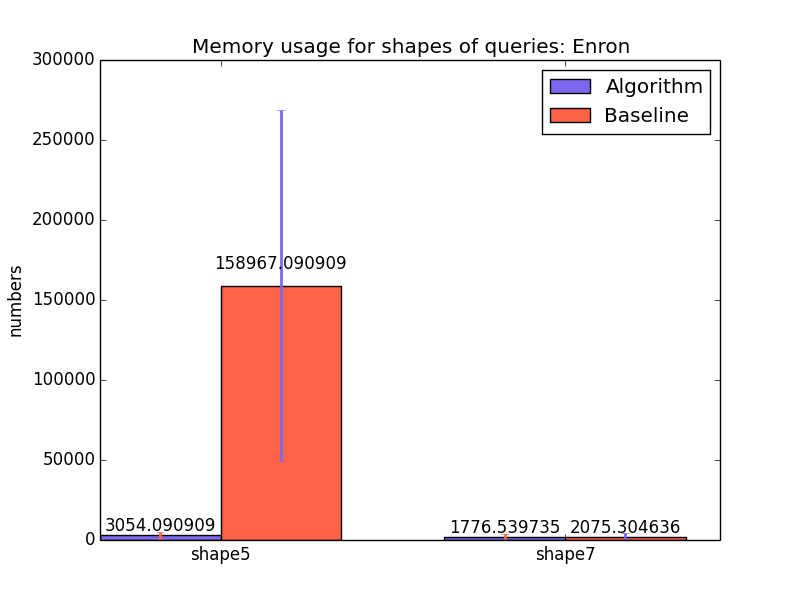
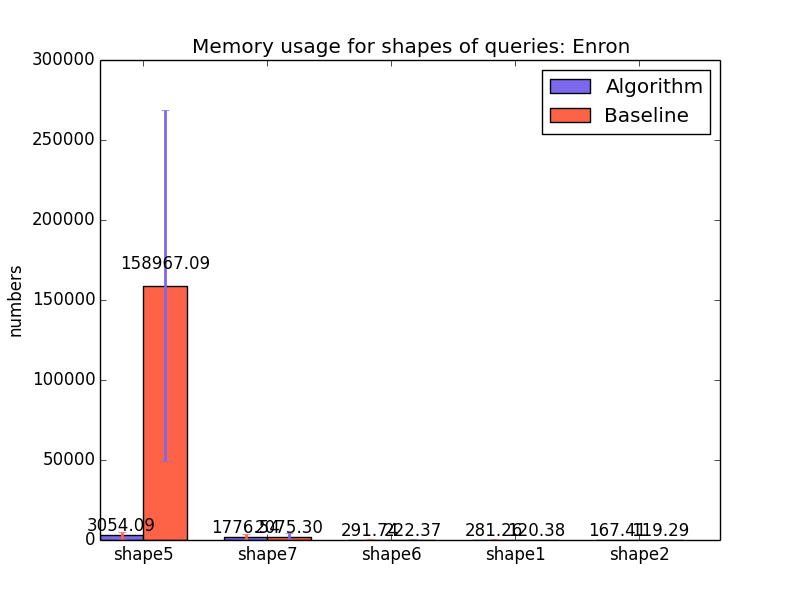
stat plotted

Changed region(s): [[0.0938, 0.18, 0.875, 0.96]]

diff --git a/plot_performance.py b/plot_performance.py
@@ -33,15 +33,15 @@ def plot(AlgoMeans, AlgoStd, baseMeans, baseStd, title, unit):
     ax.set_ylabel(unit)
     ax.set_title(title)
     ax.set_xticks(ind + width)
-    ax.set_xticklabels(('shape5', 'shape7'))
-
+    ax.set_xticklabels(('shape5', 'shape7','shape6', 'shape1', 'shape2'))
+ #   ax.set_yscale('log')
     ax.legend((rects1[0], rects2[0]), ('Algorithm', 'Baseline'))
 
     def autolabel(rects):
         for rect in rects:
             height = rect.get_height()
             ax.text(rect.get_x() + rect.get_width()/2., 1.05*height,
-                    '%f' % float(height),
+                    '%.2f' % float(height),
                     ha='center',            # vertical alignment
                     va='bottom'             # horizontal alignment
                     )
@@ -170,10 +170,11 @@ def plottime():
     baselineMeans = list()
     baselineStd = list()
 
-    algoMeans, algoStd, baselineMeans, baselineStd = stat_time(algoMeans, algoStd, baselineMeans, baselineStd, 5)
-    #construct comparison bar1: first ...
-    algoMeans, algoStd, baselineMeans, baselineStd = stat_time(algoMeans, algoStd, baselineMeans, baselineStd, 7)
-    #construct comparison bar 2: second element in lists to plot
+    shapes = [5, 7, 6, 1, 2]
+
+    for shape in shapes:
+        print shape
+        algoMeans, algoStd, baselineMeans, baselineStd = stat_time(algoMeans, algoStd, baselineMeans, baselineStd, shape)
 
     plot(algoMeans, algoStd, baselineMeans, baselineStd, "Running time for shapes of queries: Enron", 'Time:/s')
 
@@ -185,10 +186,10 @@ def plotmem():
     baselineMeans = list()
     baselineStd = list()
 
-    algoMeans, algoStd, baselineMeans, baselineStd = stat_mem(algoMeans, algoStd, baselineMeans, baselineStd, 5)
-    #construct comparison bar1: first ...
-    algoMeans, algoStd, baselineMeans, baselineStd = stat_mem(algoMeans, algoStd, baselineMeans, baselineStd, 7)
-    #construct comparison bar 2: second element in lists to plot
+    shapes = [5, 7, 6, 1, 2]
+
+    for shape in shapes:
+        algoMeans, algoStd, baselineMeans, baselineStd = stat_mem(algoMeans, algoStd, baselineMeans, baselineStd, shape)
 
     plot(algoMeans, algoStd, baselineMeans, baselineStd, "Memory usage for shapes of queries: Enron", 'numbers')
 
@@ -198,11 +199,10 @@ def plotspace():
     algoStd = list()
     baselineMeans = list()
     baselineStd = list()
+    shapes = [5, 7, 6, 1, 2]
 
-    algoMeans, algoStd, baselineMeans, baselineStd = stat_space(algoMeans, algoStd, baselineMeans, baselineStd, 5)
-    #construct comparison bar1: first ...
-    algoMeans, algoStd, baselineMeans, baselineStd = stat_space(algoMeans, algoStd, baselineMeans, baselineStd, 7)
-    #construct comparison bar 2: second element in lists to plot
+    for shape in shapes:
+        algoMeans, algoStd, baselineMeans, baselineStd =  stat_space(algoMeans, algoStd, baselineMeans, baselineStd, shape)
 
     plot(algoMeans, algoStd, baselineMeans, baselineStd, "Total search space for shapes of queries: Enron", 'numbers')
 

diff --git a/experiment_batch.py b/experiment_batch.py
@@ -22,6 +22,7 @@ def repeat_for_shape(shape_choose, number, infile):
     seen_seeds = set()
 
     skip_first = 1
+    datasetname = infile.split('/')[1]
     with open(infile,'r') as infileP:
         for line in infileP:
             if skip_first == 1:
@@ -30,10 +31,10 @@ def repeat_for_shape(shape_choose, number, infile):
                 seed = line.split(' ')[0]
                 if seed not in seen_seeds:
                     print "NEW ROUND START---"
-                    outdir = "./output"+str(shape_choose)+"/"+str(seed)
+                    outdir = "./"+datasetname+"outputs/output"+str(shape_choose)+"/"+str(seed)
                     print outdir
                   #  try:
-                    run(["./pro-heaps", infile, outdir, str(shape_choose), str(seed)], 20)
+                    run(["./pro-heaps", infile, outdir, str(shape_choose), str(seed)], 60)
                         #when there are real top-k, the result would be valid, otherwise no!
                     #except Exception as Calling_timeout:
                      #   print "WARNING--TIMEOUT"
@@ -49,7 +50,10 @@ def repeat_for_shape(shape_choose, number, infile):
 def main():
    # repeat_for_shape(1, 100, "./Enron/enron_graph.wgt.norm")
    # repeat_for_shape(4, 2000, "./DBLP/dblp_graph.new.wgt")
-    repeat_for_shape(7, 1000, "./Enron/enron_graph.wgt.norm")
+
+    shapelist = [1, 2, 7, 5]
+    for shape in shapelist:
+        repeat_for_shape(shape, 1000, "./DBLP/dblp_graph.new.wgt")
 
 
 
